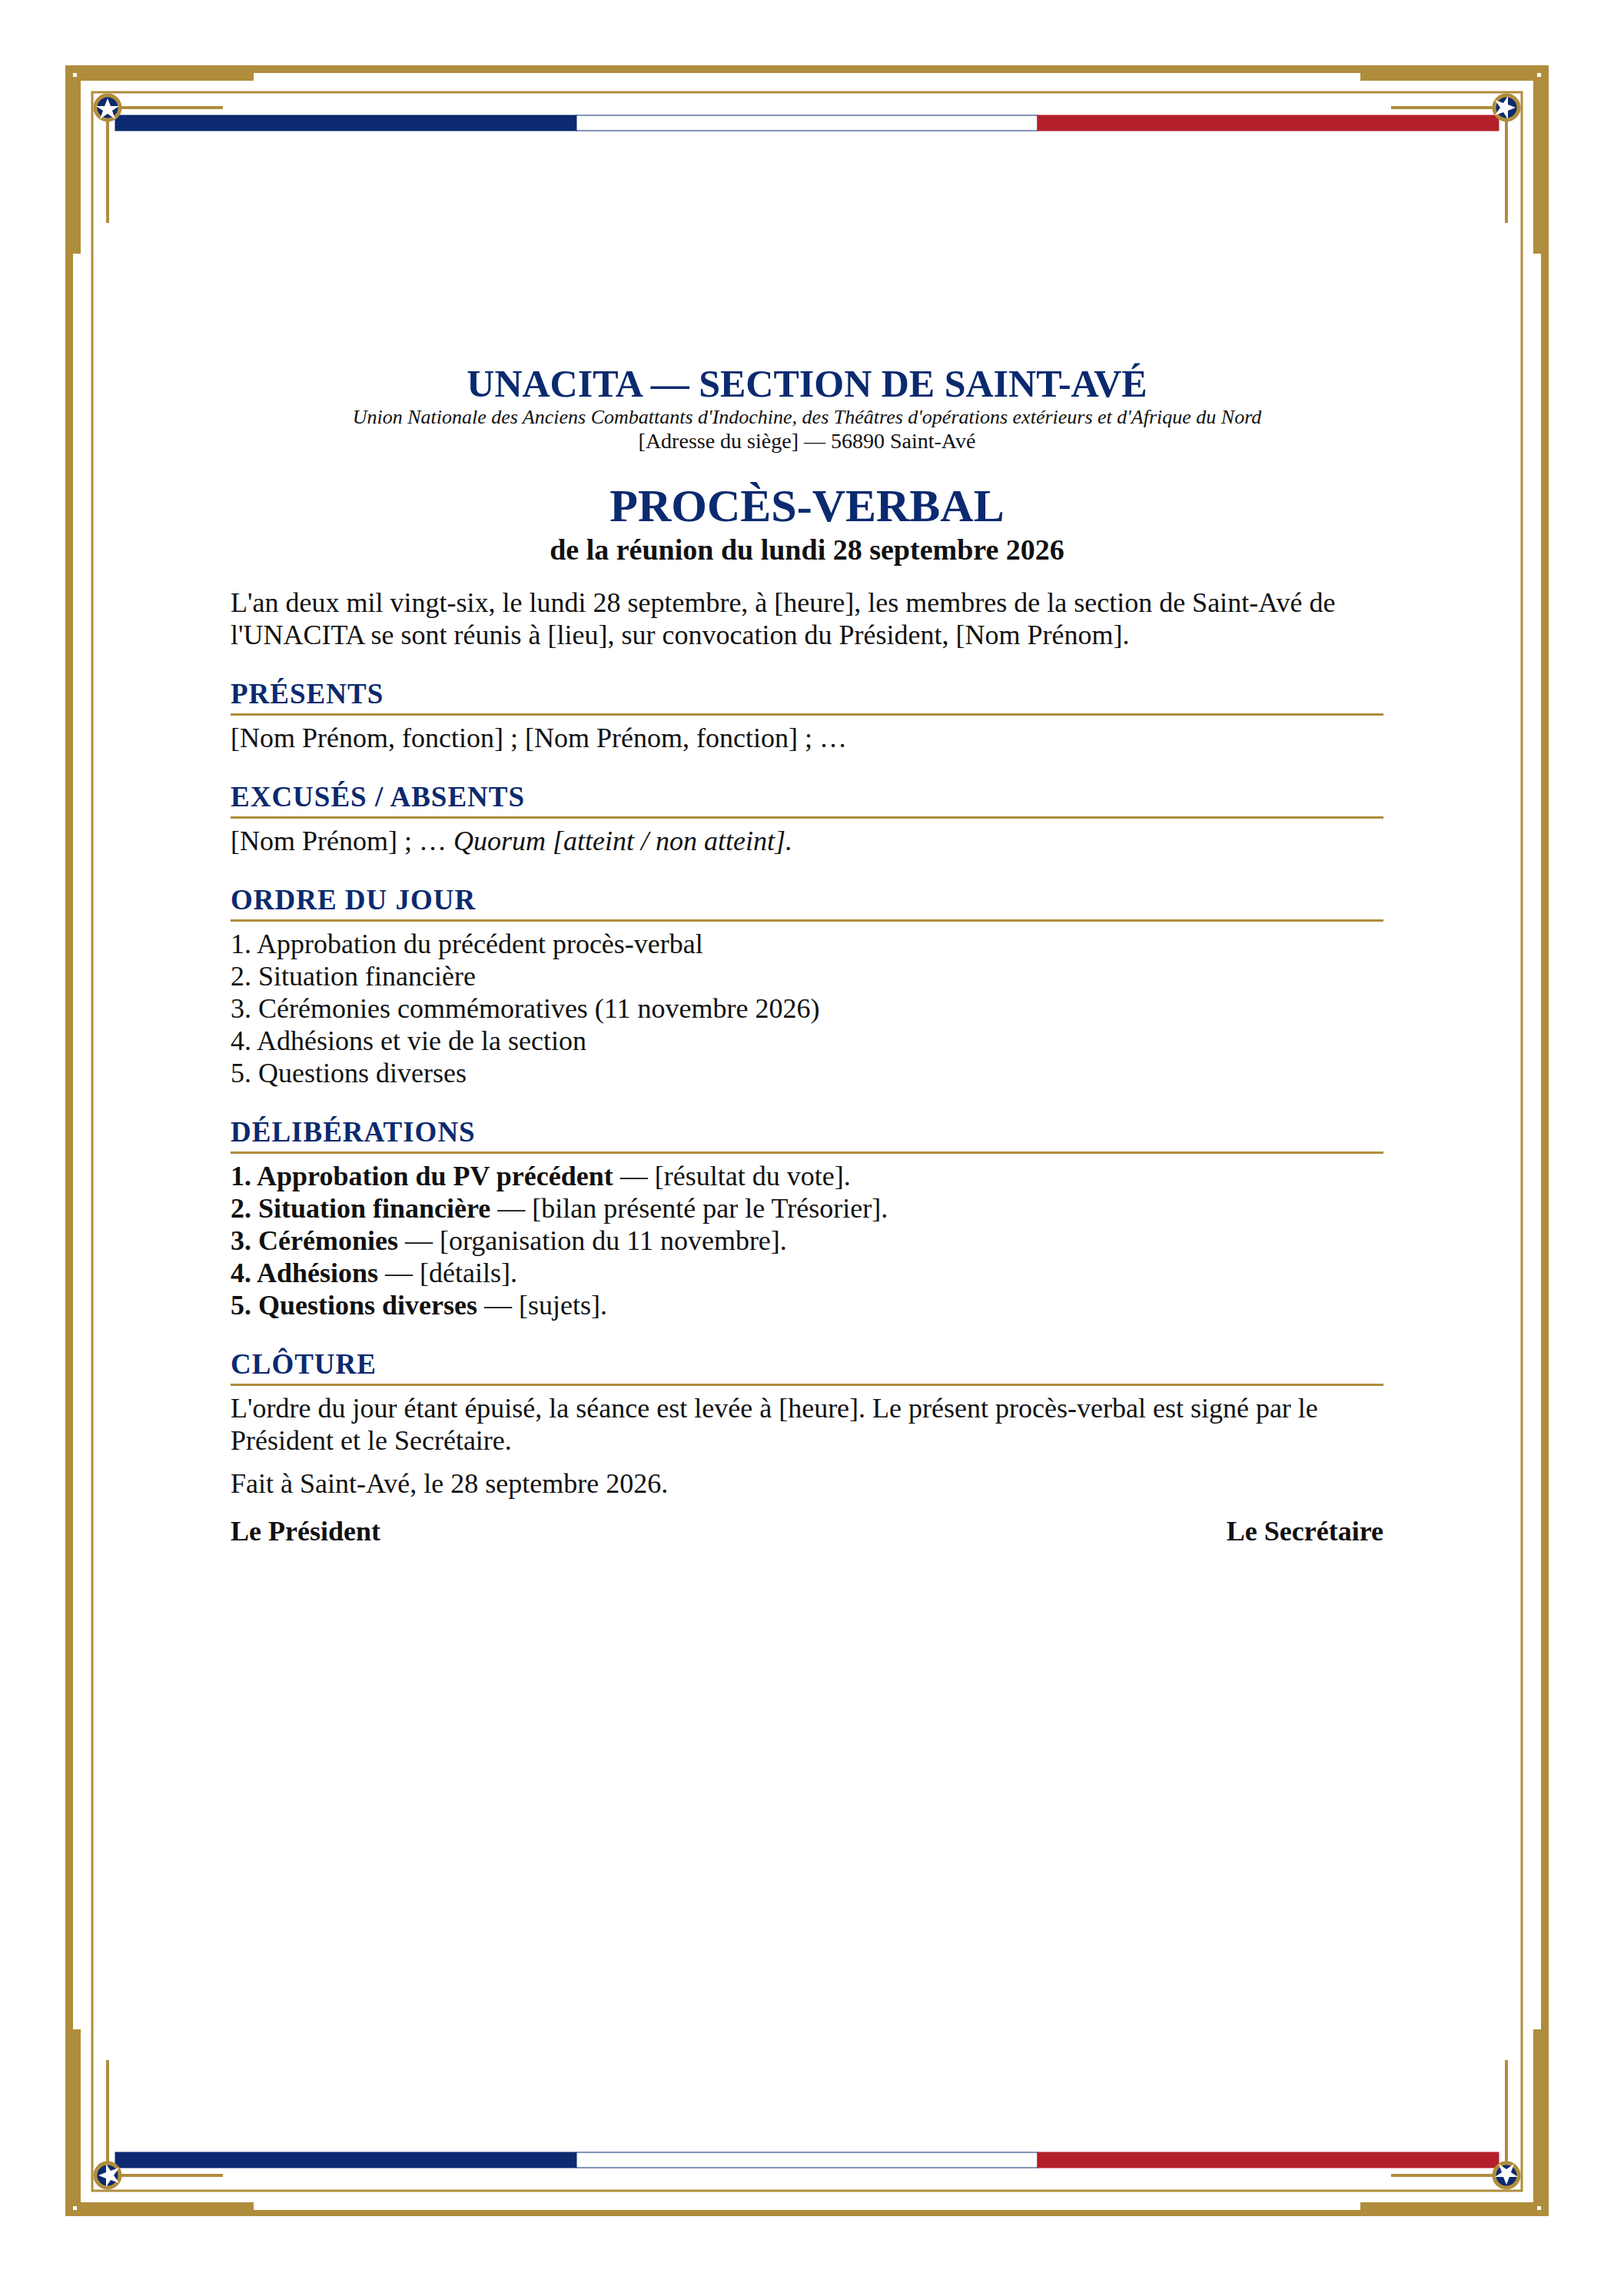
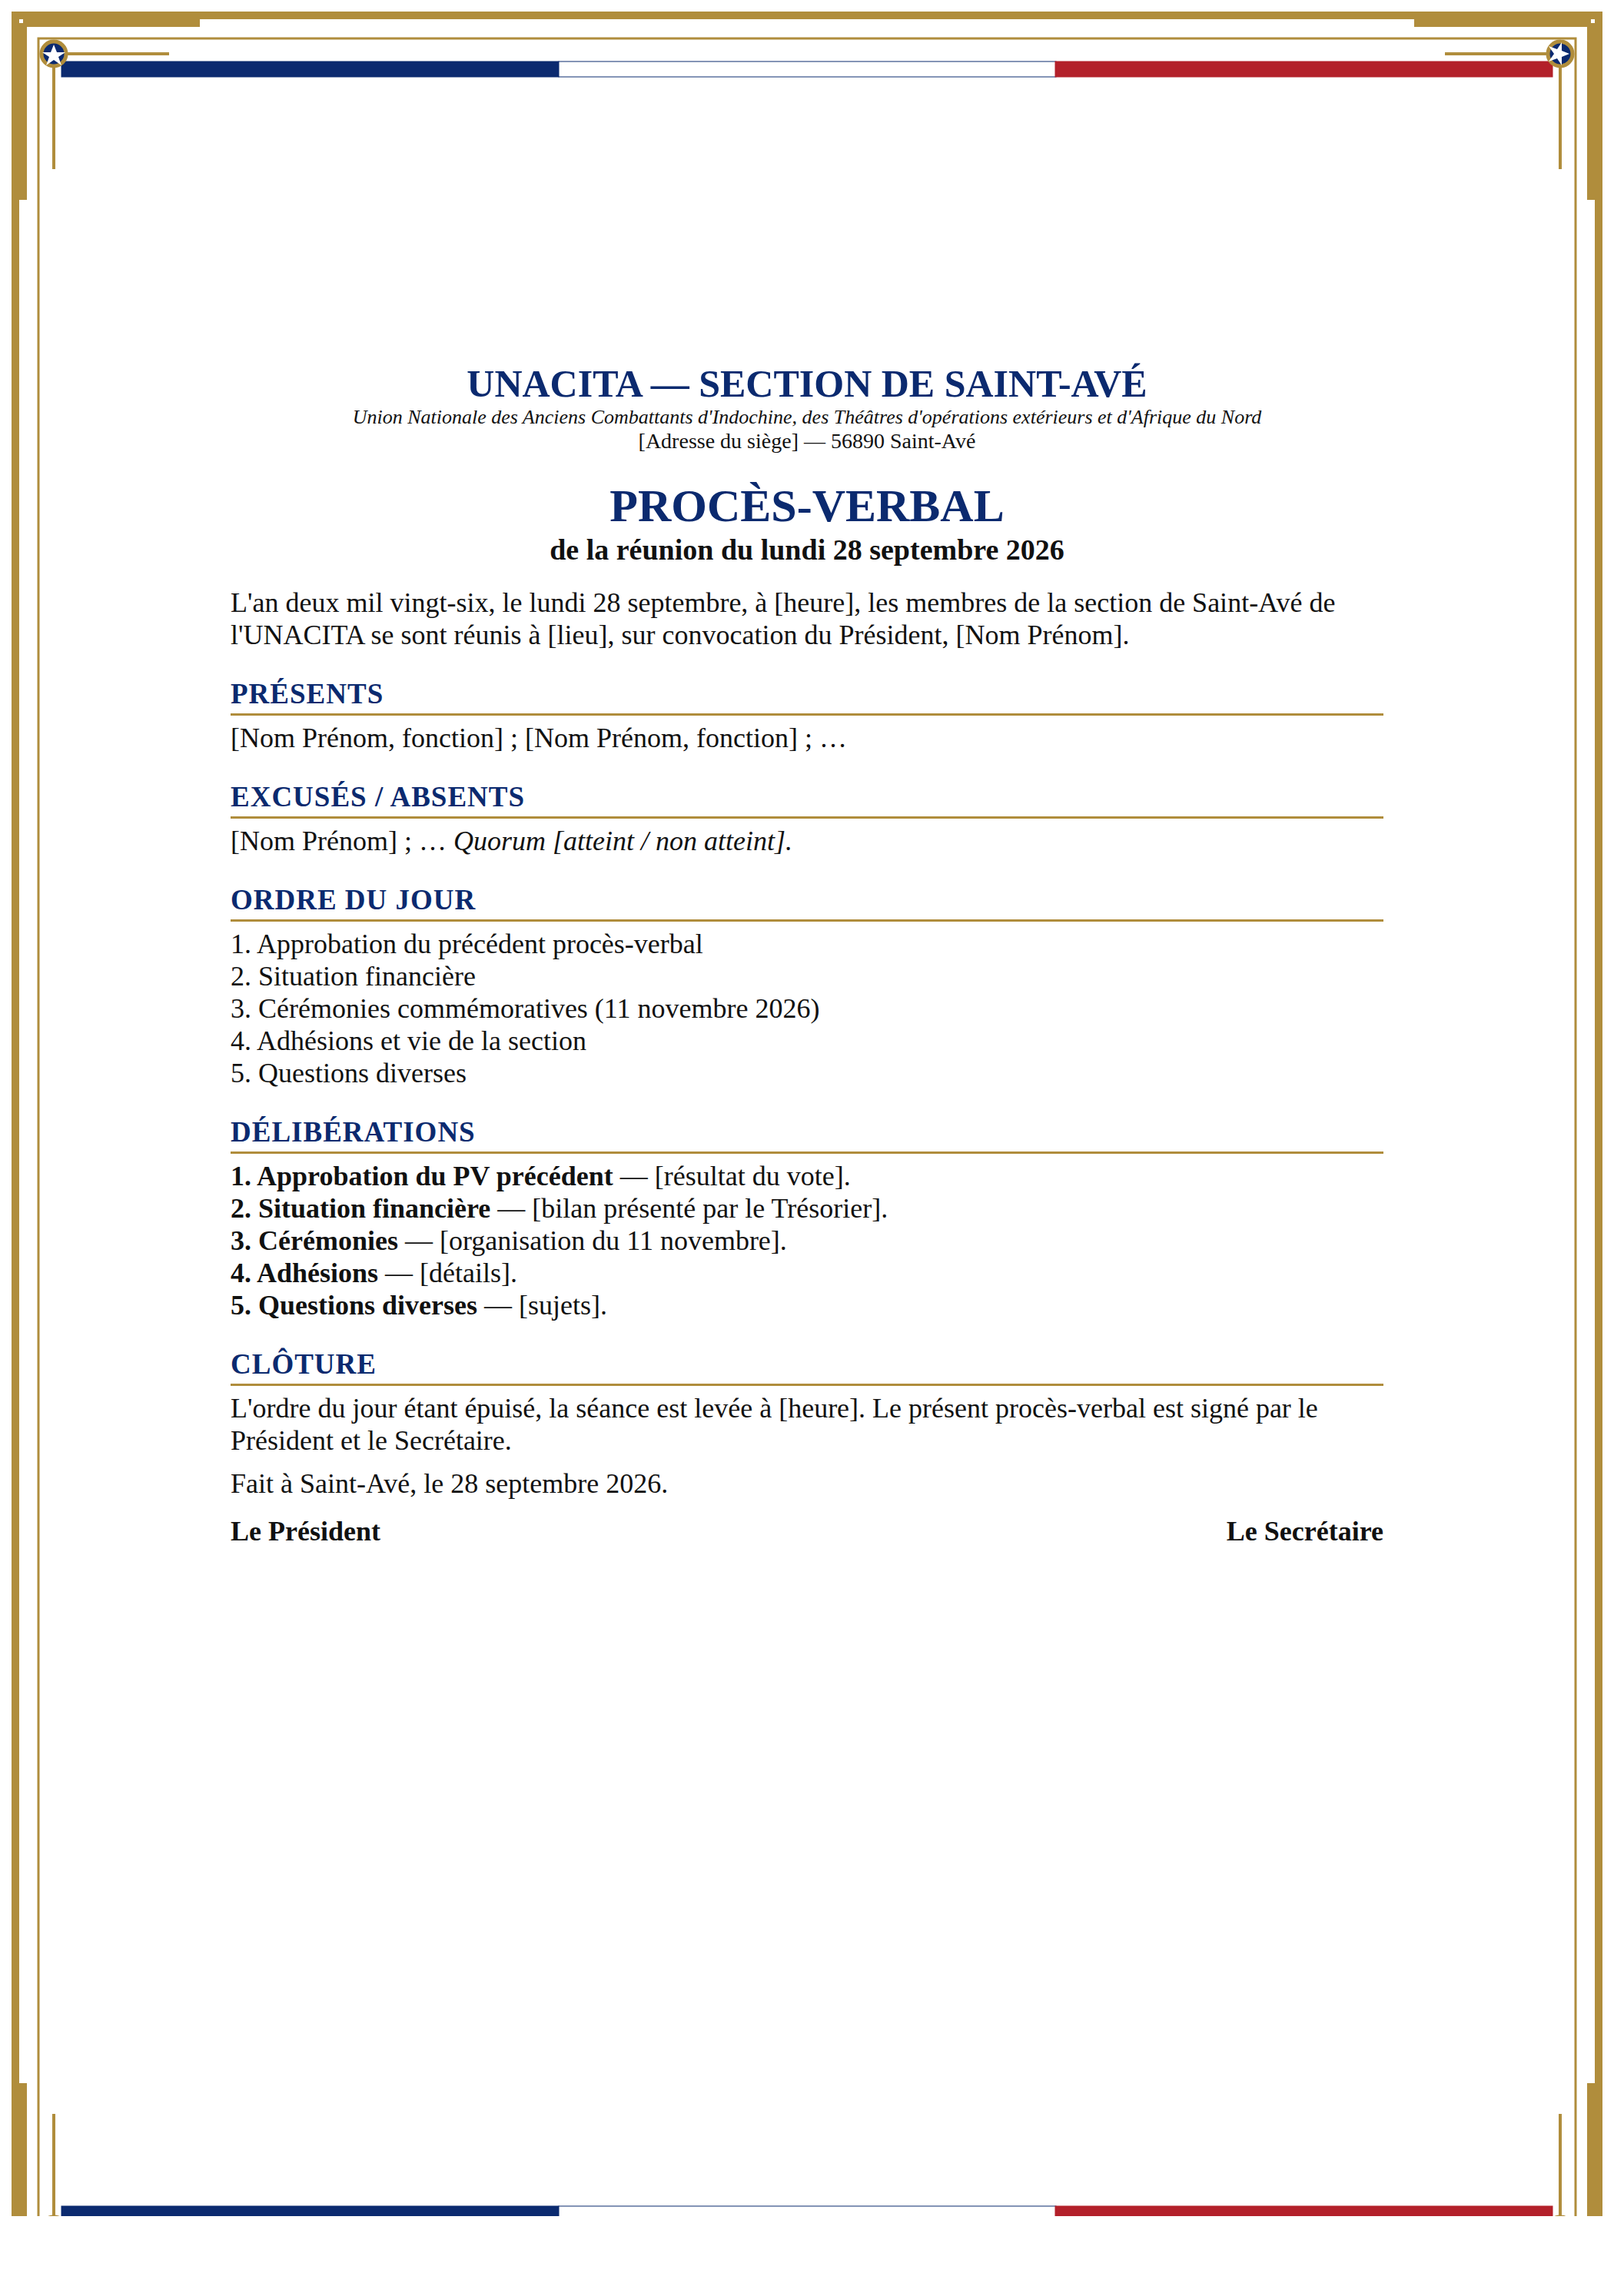
Cadre UNACITA au ras du bord de la feuille
Claude-Session: https://claude.ai/code/session_01DbPMw2PvJQYY6byZgTV533

Changed region(s): [[0.0, 0.0, 1.0, 0.9912]]

diff --git a/unacita/gen.py b/unacita/gen.py
@@ -28,7 +28,7 @@ def wreath(cx,cy,r=170,up=True):
     return out
 def corner(x,y,r):
     return f'<g transform="translate({x} {y}) rotate({r})"><path d="M0,0 H230 M0,0 V230" stroke="{GOLD}" stroke-width="10"/><path d="M40,40 H190 M40,40 V190" stroke="{GOLD}" stroke-width="4"/><circle cx="40" cy="40" r="16" fill="{BLUE}" stroke="{GOLD}" stroke-width="5"/><path d="M40,28 L44,38 L55,38 L46,44 L50,55 L40,48 L30,55 L34,44 L25,38 L36,38Z" fill="#fff"/></g>'
-m=90
+m=20
 svg=f'<svg xmlns="http://www.w3.org/2000/svg" viewBox="0 0 {W} {H}" width="2100" height="2970"><rect width="{W}" height="{H}" fill="#fff"/>'
 svg+=f'<rect x="{m}" y="{m}" width="{W-2*m}" height="{H-2*m}" fill="none" stroke="{GOLD}" stroke-width="10"/>'
 svg+=f'<rect x="{m+30}" y="{m+30}" width="{W-2*m-60}" height="{H-2*m-60}" fill="none" stroke="{GOLD}" stroke-width="3"/>'
